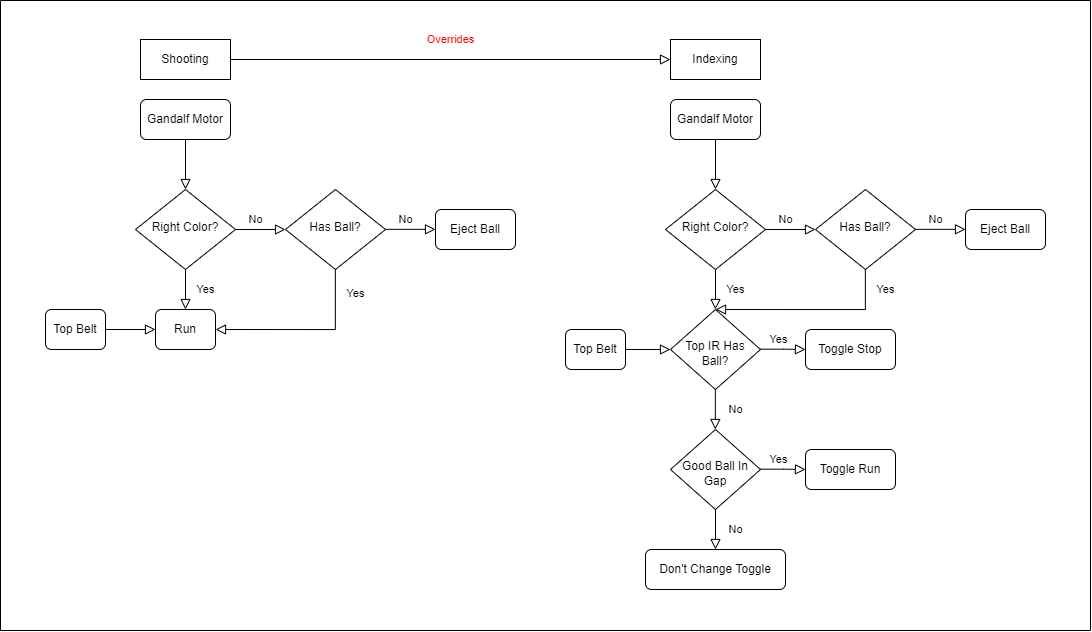
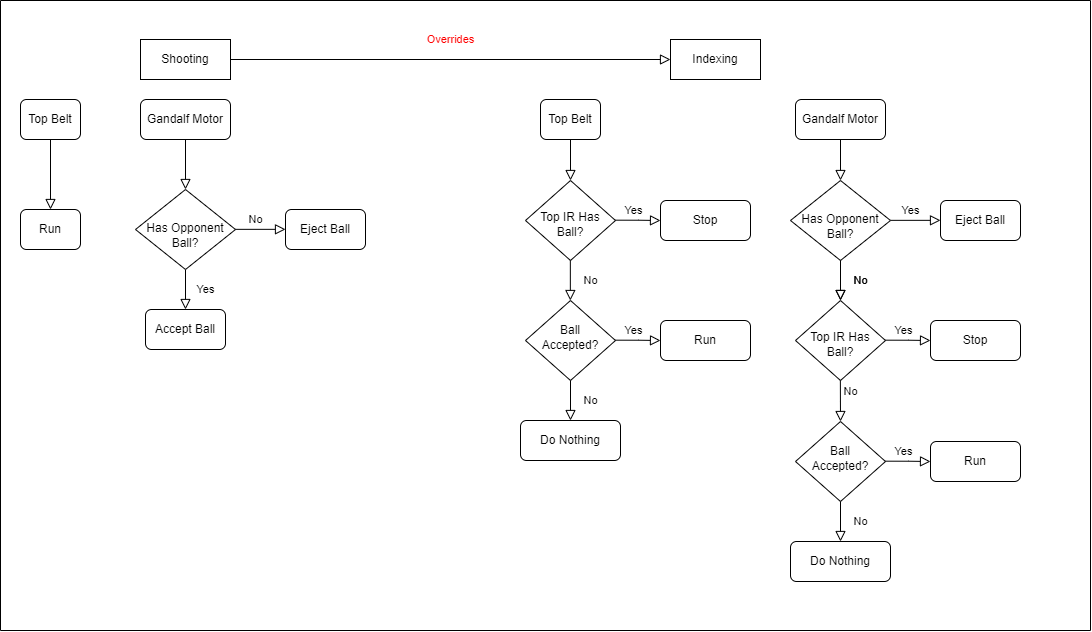
Update conveyor commands

diff --git a/src/main/java/com/stuypulse/robot/commands/conveyor/ConveyorIndexCommand.java b/src/main/java/com/stuypulse/robot/commands/conveyor/ConveyorIndexCommand.java
@@ -6,6 +6,7 @@
 package com.stuypulse.robot.commands.conveyor;
 
 import com.stuypulse.robot.subsystems.Conveyor;
+import com.stuypulse.robot.subsystems.Conveyor.Direction;
 
 import edu.wpi.first.wpilibj2.command.CommandBase;
 
@@ -39,48 +40,37 @@ public class ConveyorIndexCommand extends CommandBase {
 
     private final Conveyor conveyor;
     private final boolean ejectionless;
-    private boolean previouslyRunning;
+    private boolean ejecting;
 
     /** Creates a new ConveyorDefaultCommand. */
     private ConveyorIndexCommand(Conveyor conveyor, boolean ejectionless) {
         this.conveyor = conveyor;
         this.ejectionless = ejectionless;
+        this.ejecting = false;
 
-        previouslyRunning = false;
         addRequirements(conveyor);
     }
 
     @Override
     public void execute() {
         // Gandalf logic
-        if (!ejectionless && conveyor.hasOpponentBall()) {
-            conveyor.spinGandalf(false);
+        if (!ejectionless && conveyor.hasOpponentBall()) { // Start eject
+            conveyor.setGandalf(Direction.REVERSE);
+            ejecting = true;
         } else if (conveyor.getTopBeltHasBall()) {
-            conveyor.stopGandalf();
+            conveyor.setGandalf(Direction.STOPPED);
         } else if (conveyor.hasAllianceBall()) {
-            conveyor.spinGandalf(true);
-        } else if (previouslyRunning) {
-            conveyor.spinGandalf(true);
-        } else {
-            conveyor.stopGandalf();
+            conveyor.setGandalf(Direction.FORWARD);
+        } else if (ejecting) { // End eject (we know the opponent ball is no longer there, and nothing else important is happening)
+            conveyor.setGandalf(Direction.STOPPED);
+            ejecting = false;
         }
 
         // Top belt logic
         if (conveyor.getTopBeltHasBall()) {
-            conveyor.stopTopBelt();
+            conveyor.setTopBelt(Direction.STOPPED);
         } else if (conveyor.hasAllianceBall()) {
-            conveyor.spinTopBelt(true);
-        } else if (previouslyRunning) {
-            conveyor.spinTopBelt(true);
-        } else {
-            conveyor.stopTopBelt();
-        }
-
-        // Logic to maintain state
-        if (conveyor.getTopBeltHasBall()) {
-            previouslyRunning = false;
-        } else if (conveyor.hasAllianceBall()) {
-            previouslyRunning = true;
+            conveyor.setTopBelt(Direction.FORWARD);
         }
     }
 }

diff --git a/src/main/java/com/stuypulse/robot/subsystems/Conveyor.java b/src/main/java/com/stuypulse/robot/subsystems/Conveyor.java
@@ -46,6 +46,9 @@ import com.revrobotics.CANSparkMaxLowLevel.MotorType;
  */
 
 public class Conveyor extends SubsystemBase {
+    
+    public enum Direction { FORWARD, STOPPED, REVERSE }
+
     private final CANSparkMax topBeltMotor;
     private final CANSparkMax gandalfMotor;
 
@@ -64,30 +67,32 @@ public class Conveyor extends SubsystemBase {
     }
 
     /** Spins the Top Conveyor Belt, moving the ball up to the shooter. If false, */
-    public void spinTopBelt(boolean forward) {
-        if (forward) {
-            topBeltMotor.set(ConveyorSettings.TOP_BELT_SPEED.get());
-        } else {
-            topBeltMotor.set(-ConveyorSettings.TOP_BELT_SPEED.get());
+    public void setTopBelt(Direction direction) {
+        switch (direction) {
+            case FORWARD:
+                topBeltMotor.set(ConveyorSettings.TOP_BELT_SPEED.get());
+                break;
+            case STOPPED:
+                topBeltMotor.stopMotor();
+                break;
+            case REVERSE:
+                topBeltMotor.set(-ConveyorSettings.TOP_BELT_SPEED.get());
+                break;
         }
     }
 
-    public void spinGandalf(boolean accept) {
-        if (accept) {
-            gandalfMotor.set(ConveyorSettings.ACCEPT_SPEED.get());
-        } else {
-            gandalfMotor.set(ConveyorSettings.REJECT_SPEED.get());
+    public void setGandalf(Direction direction) {
+        switch (direction) {
+            case FORWARD:
+                gandalfMotor.set(ConveyorSettings.ACCEPT_SPEED.get());
+                break;
+            case STOPPED:
+                gandalfMotor.stopMotor();;
+                break;
+            case REVERSE:
+                gandalfMotor.set(ConveyorSettings.REJECT_SPEED.get());
+                break;
         }
-    }
-
-    /** Stops the Top Conveyor Belt */
-    public void stopTopBelt() {
-        topBeltMotor.stopMotor();
-    }
-
-    /** Stops the Gandalf Motor */
-    public void stopGandalf() {
-        gandalfMotor.stopMotor();
     }
 
     /** Finds if the upper IR Sensor has been tripped e.g., there is a ball in the top conveyor */
@@ -106,10 +111,6 @@ public class Conveyor extends SubsystemBase {
 
     public boolean hasAllianceBall() {
         return colorSensor.hasAllianceBall();
-    }
-
-    public boolean hasBall() {
-        return colorSensor.hasBall();
     }
 
     @Override

diff --git a/src/main/java/com/stuypulse/robot/commands/conveyor/ConveyorShootCommand.java b/src/main/java/com/stuypulse/robot/commands/conveyor/ConveyorShootCommand.java
@@ -6,6 +6,7 @@
 package com.stuypulse.robot.commands.conveyor;
 
 import com.stuypulse.robot.subsystems.Conveyor;
+import com.stuypulse.robot.subsystems.Conveyor.Direction;
 
 import edu.wpi.first.wpilibj2.command.CommandBase;
 
@@ -40,14 +41,14 @@ public class ConveyorShootCommand extends CommandBase {
 
     @Override
     public void execute() {
-        conveyor.spinTopBelt(true);
-        conveyor.spinGandalf(!conveyor.hasOpponentBall());
+        conveyor.setTopBelt(Direction.FORWARD);
+        conveyor.setGandalf(conveyor.hasOpponentBall() ? Direction.REVERSE : Direction.FORWARD);
     }
 
     @Override
     public void end(boolean interrupted) {
-        conveyor.stopGandalf();
-        conveyor.stopTopBelt();
+        conveyor.setGandalf(Direction.STOPPED);
+        conveyor.setTopBelt(Direction.STOPPED);
     }
 
     @Override

diff --git a/src/main/java/com/stuypulse/robot/commands/conveyor/ConveyorForceEjectCommand.java b/src/main/java/com/stuypulse/robot/commands/conveyor/ConveyorForceEjectCommand.java
@@ -6,6 +6,7 @@
 package com.stuypulse.robot.commands.conveyor;
 
 import com.stuypulse.robot.subsystems.Conveyor;
+import com.stuypulse.robot.subsystems.Conveyor.Direction;
 
 import edu.wpi.first.wpilibj2.command.CommandBase;
 
@@ -40,13 +41,13 @@ public class ConveyorForceEjectCommand extends CommandBase {
 
     @Override
     public void execute() {
-        conveyor.spinGandalf(false);
-        conveyor.spinTopBelt(false);
+        conveyor.setGandalf(Direction.REVERSE);
+        conveyor.setTopBelt(Direction.REVERSE);
     }
 
     @Override
     public void end(boolean interrupted) {
-        conveyor.stopGandalf();
-        conveyor.stopTopBelt();
+        conveyor.setGandalf(Direction.STOPPED);
+        conveyor.setTopBelt(Direction.STOPPED);
     }
 }

diff --git a/src/main/java/com/stuypulse/robot/commands/conveyor/ConveyorStopCommand.java b/src/main/java/com/stuypulse/robot/commands/conveyor/ConveyorStopCommand.java
@@ -6,6 +6,7 @@
 package com.stuypulse.robot.commands.conveyor;
 
 import com.stuypulse.robot.subsystems.Conveyor;
+import com.stuypulse.robot.subsystems.Conveyor.Direction;
 
 import edu.wpi.first.wpilibj2.command.CommandBase;
 
@@ -40,7 +41,7 @@ public class ConveyorStopCommand extends CommandBase {
 
     @Override
     public void execute() {
-        conveyor.stopGandalf();
-        conveyor.stopTopBelt();
+        conveyor.setGandalf(Direction.STOPPED);
+        conveyor.setTopBelt(Direction.STOPPED);
     }
 }
